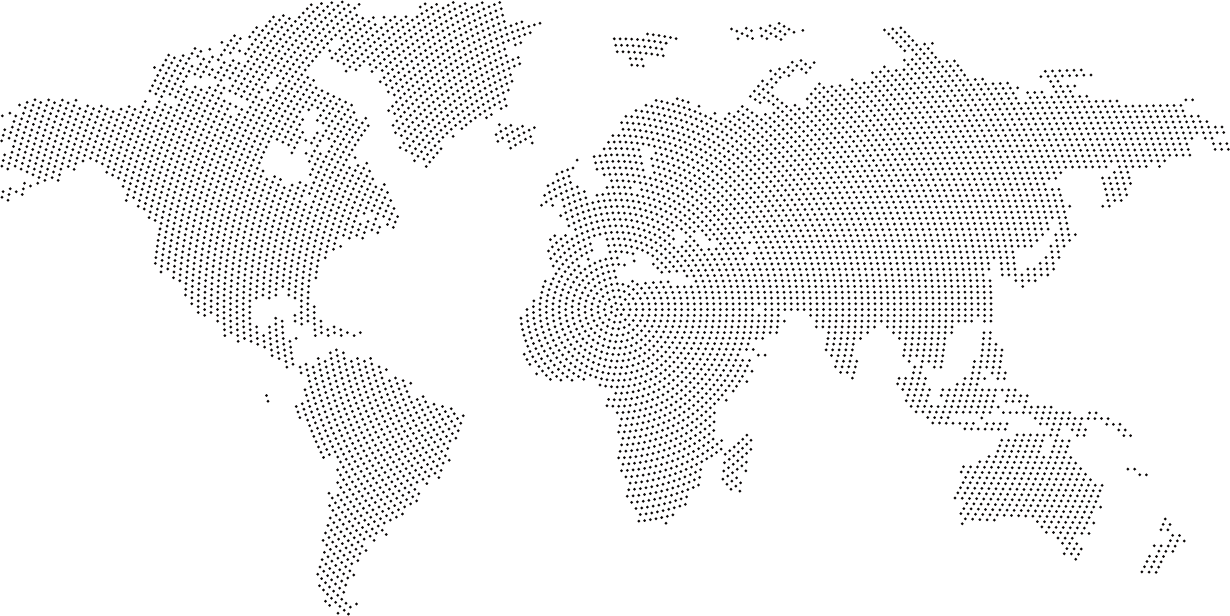
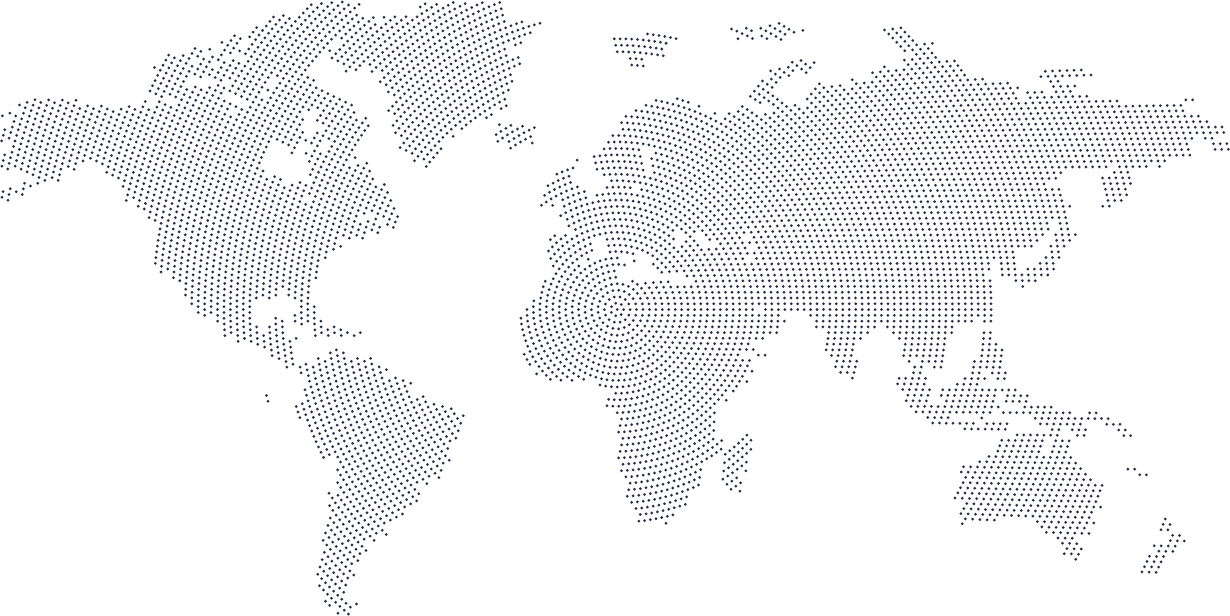
no message

diff --git a/src/App.js b/src/App.js
@@ -12,7 +12,7 @@ export default class App extends Component {
                 value: 50,
               },
               color: {
-                value: "#ccc",
+                value: "#262C43",
               },
               shape: {
                 type: "circle",
@@ -25,6 +25,7 @@ export default class App extends Component {
               },
               lineLinked: {
                 distance: 150,
+                color: '#262C43',
               },
               move: {
                 speed: 4,

diff --git a/src/index.css b/src/index.css
@@ -1,5 +1,5 @@
 body {
-  background: url("images/world_map.png") rgba(1, 4, 21, 0.9);
+  background: url("images/world_map.png") #010415;
   margin: 0;
   font-family: -apple-system, BlinkMacSystemFont, "Segoe UI", "Roboto", "Oxygen", "Ubuntu", "Cantarell", "Fira Sans", "Droid Sans", "Helvetica Neue", sans-serif;
   -webkit-font-smoothing: antialiased;
